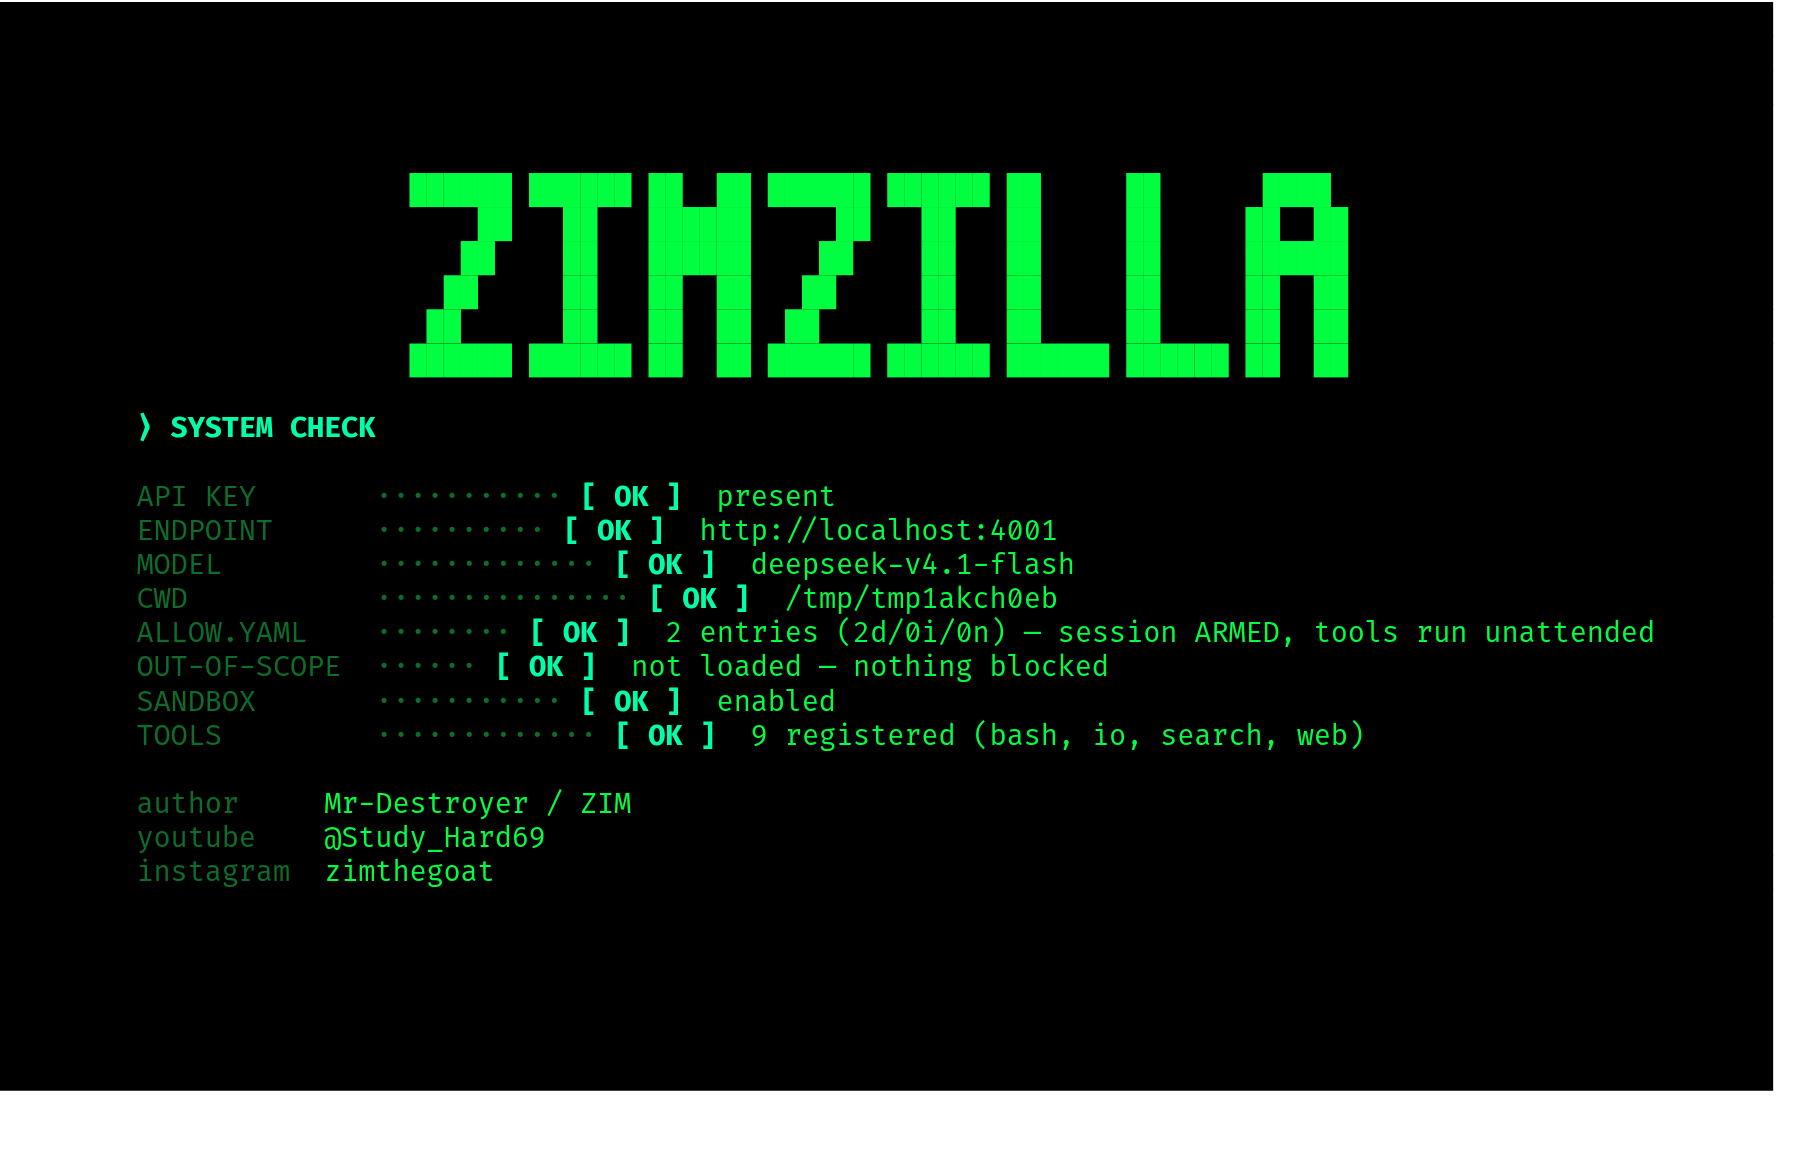
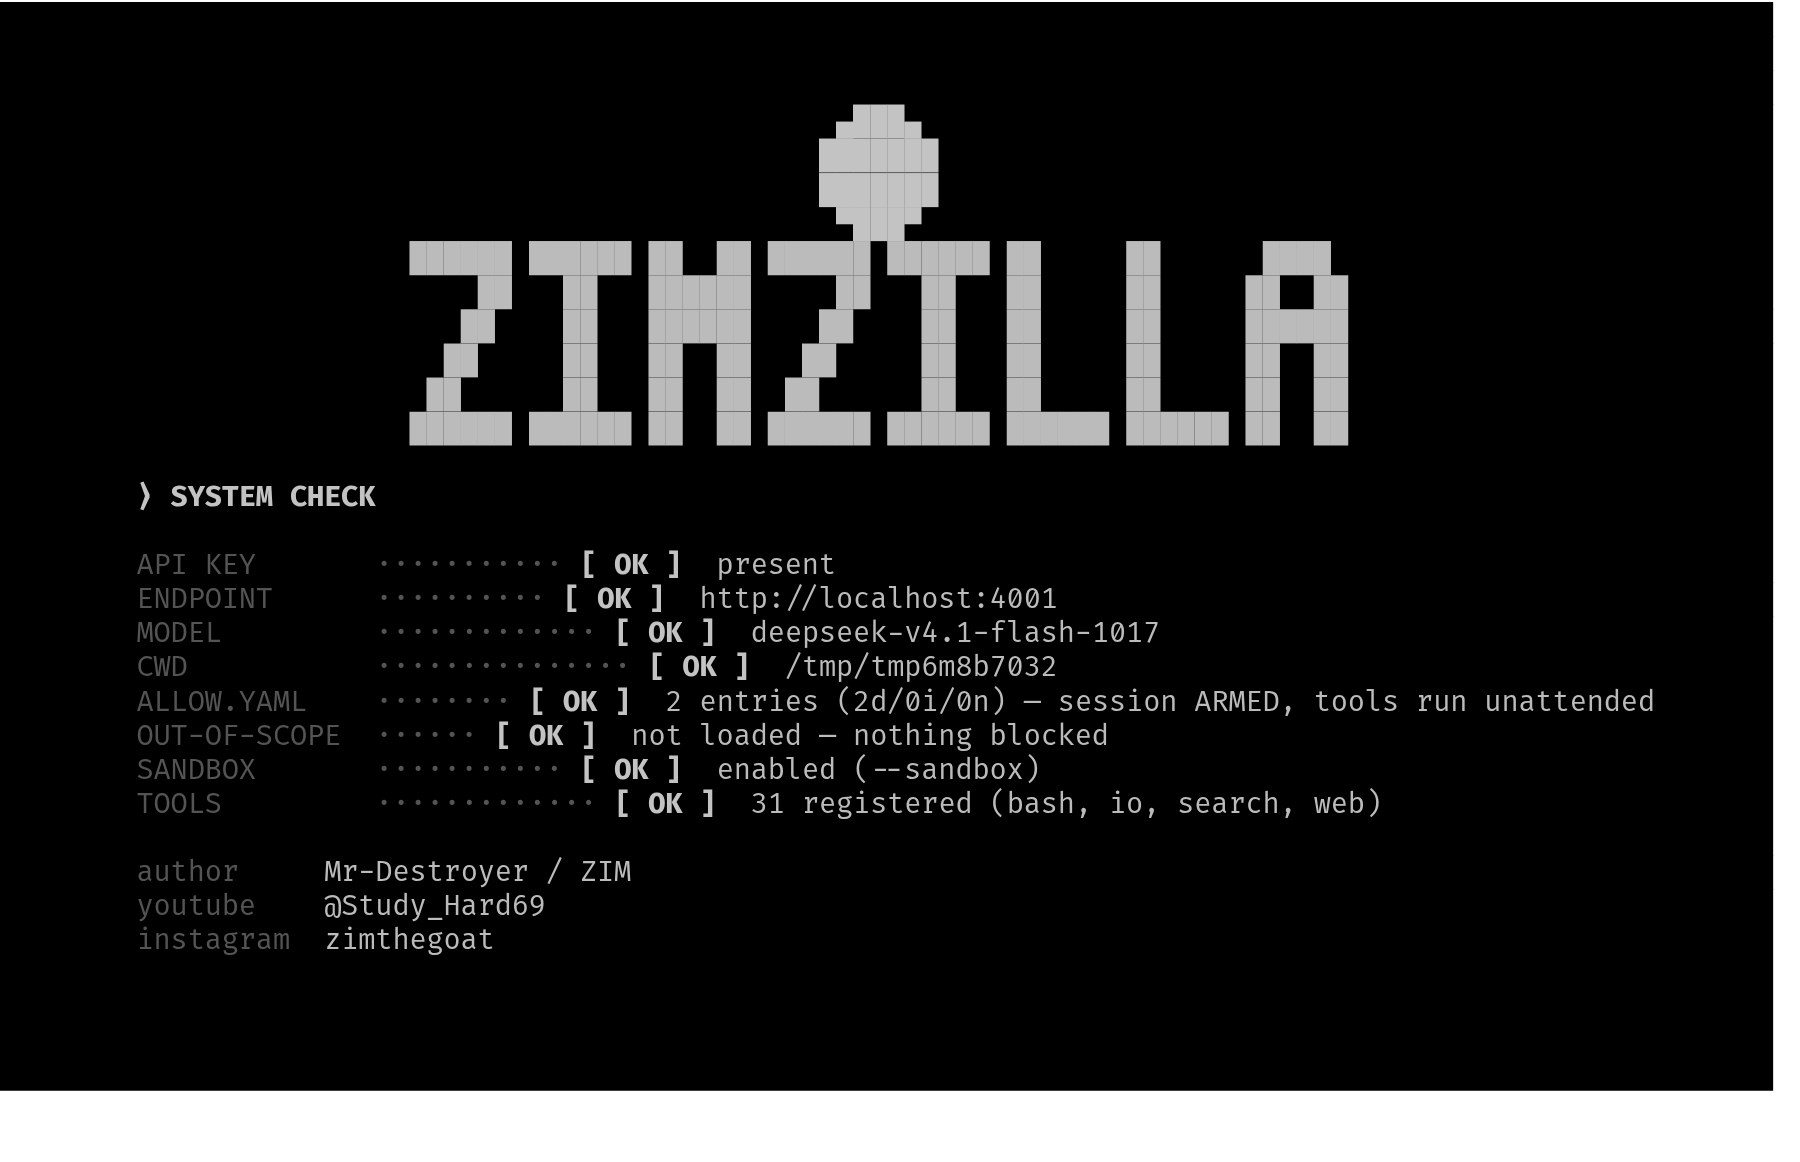
docs(screens): capture the real TUI for every major surface
Regenerated the shell, boot, model and mode shots with the current header, and
added the workbench gallery: help, memory, usage, focus mode, MCP, sources,
OSINT, payload, reverse tools, crack, AD, saved-hunt findings, and every
ZimSuite tab (history, repeater, intruder, intercept, crawler, findings), plus
the image pane.

The existing docs/gen_screenshots.py now drives those states against a local
hunt fixture and the real Textual widgets; the SVGs are stripped of the fake
OS window and rasterised to 1800px PNGs. README embeds all 24 images.

No code paths changed.

Changed region(s): [[0.0622, 0.0929, 0.9333, 0.8365], [0.6533, 0.6816, 0.7778, 0.7126]]

diff --git a/docs/gen_screenshots.py b/docs/gen_screenshots.py
@@ -15,6 +15,7 @@ tool card is the thing worth photographing.
 from __future__ import annotations
 
 import asyncio
+import os
 import re
 import shutil
 import subprocess
@@ -22,6 +23,7 @@ import sys
 import tempfile
 import time
 from pathlib import Path
+from unittest import mock
 
 ROOT = Path(__file__).resolve().parent.parent
 sys.path.insert(0, str(ROOT))
@@ -46,8 +48,10 @@ LIST_SIZE = (124, 34)
 
 
 def _cfg(workdir: Path, **kw) -> Config:
-    return Config.from_env(workdir=workdir, api_key="x",
-                           base_url="http://localhost:4001", **kw)
+    cfg = Config.from_env(workdir=workdir, api_key="x",
+                          base_url="http://localhost:4001", **kw)
+    cfg.state_dir = workdir / "state"
+    return cfg
 
 
 def _stub(workdir: Path):
@@ -259,6 +263,116 @@ async def _shot_list(wd: Path, name: str, command: str) -> None:
         _write_shot(app, name)
 
 
+async def _shot_simple(wd: Path, name: str, command: str, prepare=None) -> None:
+    app = ZimZillaApp(_cfg(wd, boot_rain=False, theme="green"))
+    async with app.run_test(size=LIST_SIZE) as pilot:
+        app.pop_screen()
+        await pilot.pause()
+        if prepare is not None:
+            prepare(app)
+        app._handle_command(command)
+        await pilot.pause()
+        await asyncio.sleep(0.2)
+        await pilot.pause()
+        _write_shot(app, name)
+
+
+async def _shot_focus(wd: Path) -> None:
+    app = ZimZillaApp(_cfg(wd, boot_rain=False, theme="green"))
+    async with app.run_test(size=(150, 40)) as pilot:
+        app.pop_screen()
+        await pilot.pause()
+        await pilot.click("#focus-toggle")
+        await pilot.pause()
+        await asyncio.sleep(0.2)
+        _write_shot(app, "08-focus")
+
+
+async def _shot_findings(wd: Path) -> None:
+    app = ZimZillaApp(_cfg(wd, boot_rain=False, theme="green"))
+    async with app.run_test(size=(150, 40)) as pilot:
+        app.pop_screen()
+        await pilot.pause()
+        app._handle_command("/findings")
+        await pilot.pause()
+        await asyncio.sleep(0.3)
+        _write_shot(app, "10-findings")
+        if hasattr(app.screen, "dismiss"):
+            app.screen.dismiss(None)
+            await pilot.pause()
+
+
+async def _shot_suite(wd: Path) -> None:
+    from textual.widgets import TabbedContent
+    from zimzilla import suite as suite_mod
+
+    app = ZimZillaApp(_cfg(wd, boot_rain=False, theme="green"))
+    async with app.run_test(size=(160, 45)) as pilot:
+        app.pop_screen()
+        await pilot.pause()
+        with mock.patch.object(suite_mod.Suite, "start", return_value=True), \
+             mock.patch.object(suite_mod.Suite, "stop", return_value=None), \
+             mock.patch.object(suite_mod.Suite, "probe_seeds", return_value=[]):
+            app._handle_command("/zimsuite https://www.lerevecraze.com")
+            await asyncio.sleep(0.8)
+            await _shot(app, "11-suite-history")
+            tabs = app.screen.query_one(TabbedContent)
+            tabs.active = "tab-repeater"
+            await pilot.pause()
+            flows = list(app.screen.suite.flows)
+            if flows:
+                app.screen._select_flow(flows[0])
+            await pilot.pause()
+            await _shot(app, "12-suite-repeater")
+            tabs.active = "tab-intruder"
+            await pilot.pause()
+            await _shot(app, "13-suite-intruder")
+            tabs.active = "tab-intercept"
+            await pilot.pause()
+            await _shot(app, "16-suite-intercept")
+            tabs.active = "tab-crawler"
+            await pilot.pause()
+            await _shot(app, "17-suite-crawler")
+            tabs.active = "tab-findings"
+            await pilot.pause()
+            await _shot(app, "14-suite-findings")
+            app.screen.dismiss(None)
+            await pilot.pause()
+
+
+async def _shot_image(wd: Path) -> None:
+    app = ZimZillaApp(_cfg(wd, boot_rain=False, theme="green"))
+    async with app.run_test(size=(160, 45)) as pilot:
+        app.pop_screen()
+        await pilot.pause()
+        drawing = await asyncio.to_thread(tools_mod.execute, "draw_image", {
+            "spec": (
+                '<svg xmlns="http://www.w3.org/2000/svg" width="900" height="600">'
+                '<rect width="900" height="600" fill="#071007"/>'
+                '<circle cx="450" cy="270" r="150" fill="none" '
+                'stroke="#00ff41" stroke-width="8"/>'
+                '<text x="450" y="290" text-anchor="middle" fill="#00ff41" '
+                'font-family="monospace" font-size="64" font-weight="bold">'
+                'ZIMZILLA</text>'
+                '<text x="450" y="350" text-anchor="middle" fill="#88ffaa" '
+                'font-family="monospace" font-size="24">DRAW IT YOURSELF</text>'
+                '</svg>'
+            ),
+            "format": "svg", "width": 900, "height": 600,
+            "dest": "images/zimzilla-shot.png",
+        }, _cfg(wd))
+        if not drawing.is_error:
+            app._show_image_pane({"path": drawing.meta["image"],
+                                  "caption": "draw_image · local SVG render"})
+            await pilot.pause()
+            await asyncio.sleep(0.4)
+            _write_shot(app, "15-image-pane")
+
+
+async def _shot(app: ZimZillaApp, name: str) -> None:
+    _write_shot(app, name)
+
+
 async def main() -> None:
     OUT.mkdir(parents=True, exist_ok=True)
     with tempfile.TemporaryDirectory() as td:
@@ -277,11 +391,61 @@ async def main() -> None:
         allow = wd / "allow.yaml"
         allow.write_text("in_scope:\n  - api.example.com\n  - 10.0.0.0/24\n")
 
+        # A local campaign for the findings/suite shots. Reuse the author's
+        # saved campaign when present; otherwise write a small fixture.
+        hunts = wd / "state" / "hunts"
+        hunts.mkdir(parents=True)
+        source = Path.home() / ".zimzilla" / "hunts" / "lerevecraze.com"
+        if source.exists():
+            shutil.copytree(source, hunts / "lerevecraze.com")
+        else:
+            d = hunts / "lerevecraze.com" / "wave-1" / "findings"
+            d.mkdir(parents=True)
+            (d / "rest-api.md").write_text(
+                "# WordPress REST API information disclosure\n\n"
+                "**Severity:** medium\n\n"
+                "**Asset:** https://www.lerevecraze.com/wp-json/wp/v2/pages\n\n"
+                "Evidence: https://www.lerevecraze.com/wp-json/wp/v2/pages?per_page=1\n"
+                "Endpoints: /login, /wp-json/wp/v2/users, /?s=\n")
+        (hunts / "lerevecraze.com" / "recon.md").write_text(
+            "# Recon\n\nTarget answers on HTTPS. Endpoints: /login, "
+            "/wp-json/wp/v2/pages, /wp-json/wp/v2/users, /?s=\n")
+
         print("generating screenshots…")
         await _shot_boot(wd)
         await _shot_shell(wd)
         await _shot_list(wd, "03-models", "/model")
         await _shot_list(wd, "04-modes", "/mode")
+
+        await _shot_simple(wd, "05-help", "/help")
+        await _shot_simple(wd, "06-memory", "/memory",
+                           prepare=lambda app: (
+                               app.memory.add("identity", "Zim", source="explicit"),
+                               app.memory.add("like", "dark terminals and fast cars",
+                                              source="explicit"),
+                               app.memory.add("preference", "short answers",
+                                              source="explicit"),
+                               setattr(app.agent, "memory_note",
+                                       app.memory.prompt_note())))
+        await _shot_simple(wd, "07-usage", "/usage",
+                           prepare=lambda app: [
+                               app.usage.record(m, s, i, o, c) for m, s, i, o, c in (
+                                   ("gpt-4o:free", "crowllm", 12000, 2200, 0.0),
+                                   ("qwen3-8-27b:free", "kenari", 9000, 1600, 0.0),
+                                   ("deepseek-v4.1-flash", "numes", 7000, 1200, 0.0),
+                               )])
+        await _shot_focus(wd)
+        await _shot_simple(wd, "09-connect", "/connect")
+        await _shot_simple(wd, "18-mcp", "/mcp")
+        await _shot_simple(wd, "19-sources", "/zim-source")
+        await _shot_simple(wd, "20-osint", "/osint")
+        await _shot_simple(wd, "21-payload", "/payload")
+        await _shot_simple(wd, "22-reverse-tools", "/reverse-engineer-tools")
+        await _shot_simple(wd, "23-crack", "/crack")
+        await _shot_simple(wd, "24-ad", "/ad")
+        await _shot_findings(wd)
+        await _shot_suite(wd)
+        await _shot_image(wd)
     print("done.")
 
 

diff --git a/README.md b/README.md
@@ -65,6 +65,121 @@ alone — they are content, not chrome.
 </tr>
 </table>
 
+
+### The workbench, in screens
+
+<table>
+<tr>
+<td width="50%">
+<img src="docs/screenshots/05-help.png" alt="the full command reference, grouped by task">
+<sub><b>Every command, grouped.</b> Sessions, models, upstreams, recon, media and the workbench.</sub>
+</td>
+<td width="50%">
+<img src="docs/screenshots/09-connect.png" alt="MCP bridge list and generated app connections">
+<sub><b>Connect what you already use.</b> MCP bridges, generated app adapters, live tools.</sub>
+</td>
+</tr>
+<tr>
+<td width="50%">
+<img src="docs/screenshots/07-usage.png" alt="all-time usage ledger with model and source bar charts">
+<sub><b>Where the tokens went.</b> Favourite model, top source, totals and a 14-day graph.</sub>
+</td>
+<td width="50%">
+<img src="docs/screenshots/06-memory.png" alt="operator memory showing name, likes and preferences">
+<sub><b>It remembers you.</b> Name, likes and preferences, editable with <code>/memory</code>.</sub>
+</td>
+</tr>
+<tr>
+<td width="50%">
+<img src="docs/screenshots/08-focus.png" alt="focus mode with both side rails hidden">
+<sub><b>Focus mode.</b> The ⛶ button hides both rails and gives the width to the harness.</sub>
+</td>
+<td width="50%">
+<img src="docs/screenshots/10-findings.png" alt="findings panel for a saved bug-hunt campaign">
+<sub><b>Findings on disk.</b> A saved bug hunt opens as a ranked, readable panel.</sub>
+</td>
+</tr>
+<tr>
+<td width="50%">
+<img src="docs/screenshots/11-suite-history.png" alt="ZimSuite history with host, method, path, status and type columns">
+<sub><b>ZimSuite history.</b> Hunt endpoints seeded into a real proxy history, with host and live status.</sub>
+</td>
+<td width="50%">
+<img src="docs/screenshots/12-suite-repeater.png" alt="ZimSuite repeater with an editable raw request">
+<sub><b>Repeater.</b> Edit the raw request; the new response lands in history.</sub>
+</td>
+</tr>
+<tr>
+<td width="50%">
+<img src="docs/screenshots/13-suite-intruder.png" alt="ZimSuite intruder with URL, payload list and request editor">
+<sub><b>Intruder.</b> A URL with <code>FUZZ</code>, a payload list, and a result table.</sub>
+</td>
+<td width="50%">
+<img src="docs/screenshots/14-suite-findings.png" alt="ZimSuite findings tab beside the mini agent">
+<sub><b>Findings beside the agent.</b> The hunt report and the live mini-harness share one screen.</sub>
+</td>
+</tr>
+<tr>
+<td width="50%">
+<img src="docs/screenshots/16-suite-intercept.png" alt="ZimSuite intercept tab with forward and drop controls">
+<sub><b>Intercept.</b> Arm the queue, then forward or drop each parked request.</sub>
+</td>
+<td width="50%">
+<img src="docs/screenshots/17-suite-crawler.png" alt="ZimSuite crawler tab with a start URL">
+<sub><b>Crawler.</b> Follow same-host links and seed from the saved hunt's URLs.</sub>
+</td>
+</tr>
+</table>
+
+<img src="docs/screenshots/15-image-pane.png" alt="the resizable image pane showing a locally drawn ZIMZILLA logo" width="880">
+
+*<b>Images without an image API.</b> The model writes SVG/HTML, Chromium renders it, and the image pane shows the result.*
+
+### The specialist surfaces
+
+<table>
+<tr>
+<td width="50%">
+<img src="docs/screenshots/18-mcp.png" alt="MCP servers, tools and connection status">
+<sub><b>MCP.</b> Connected servers, their tools, and what is live.</sub>
+</td>
+<td width="50%">
+<img src="docs/screenshots/19-sources.png" alt="upstream sources and their status">
+<sub><b>Upstreams.</b> Every source, its key state, route, and free-model rules.</sub>
+</td>
+</tr>
+<tr>
+<td width="50%">
+<img src="docs/screenshots/20-osint.png" alt="OSINT command reference">
+<sub><b>OSINT.</b> Username, email, domain, IP and phone cases.</sub>
+</td>
+<td width="50%">
+<img src="docs/screenshots/21-payload.png" alt="payload generation surface">
+<sub><b>Payloads.</b> Generated, platform-aware, refusal-resistant.</sub>
+</td>
+</tr>
+<tr>
+<td width="50%">
+<img src="docs/screenshots/22-reverse-tools.png" alt="reverse-engineering tools">
+<sub><b>Reverse engineering.</b> The local binary-analysis toolkit.</sub>
+</td>
+<td width="50%">
+<img src="docs/screenshots/23-crack.png" alt="cracking workflow">
+<sub><b>Cracking.</b> Captures, rules and a local wordlist.</sub>
+</td>
+</tr>
+<tr>
+<td width="50%">
+<img src="docs/screenshots/24-ad.png" alt="Active Directory campaign gate">
+<sub><b>Active Directory.</b> The gated AD campaign surface.</sub>
+</td>
+<td width="50%">
+<img src="docs/screenshots/10-findings.png" alt="saved bug-hunt findings panel">
+<sub><b>Bug hunt.</b> Findings from a saved campaign, ranked and readable.</sub>
+</td>
+</tr>
+</table>
+
 </div>
 
 ---
